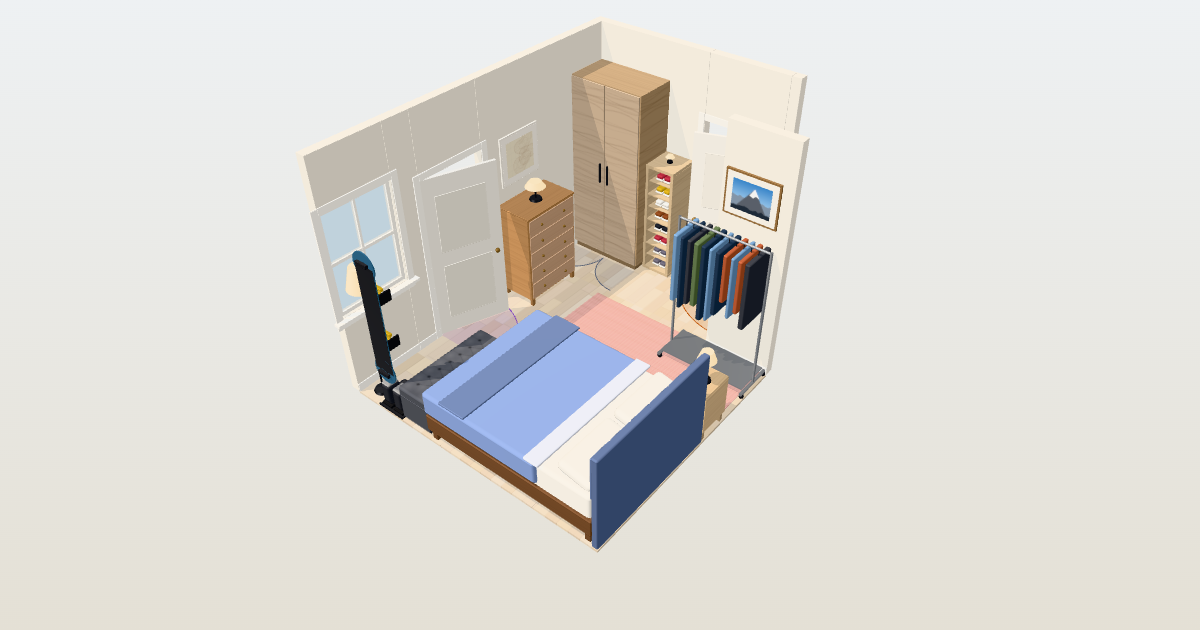
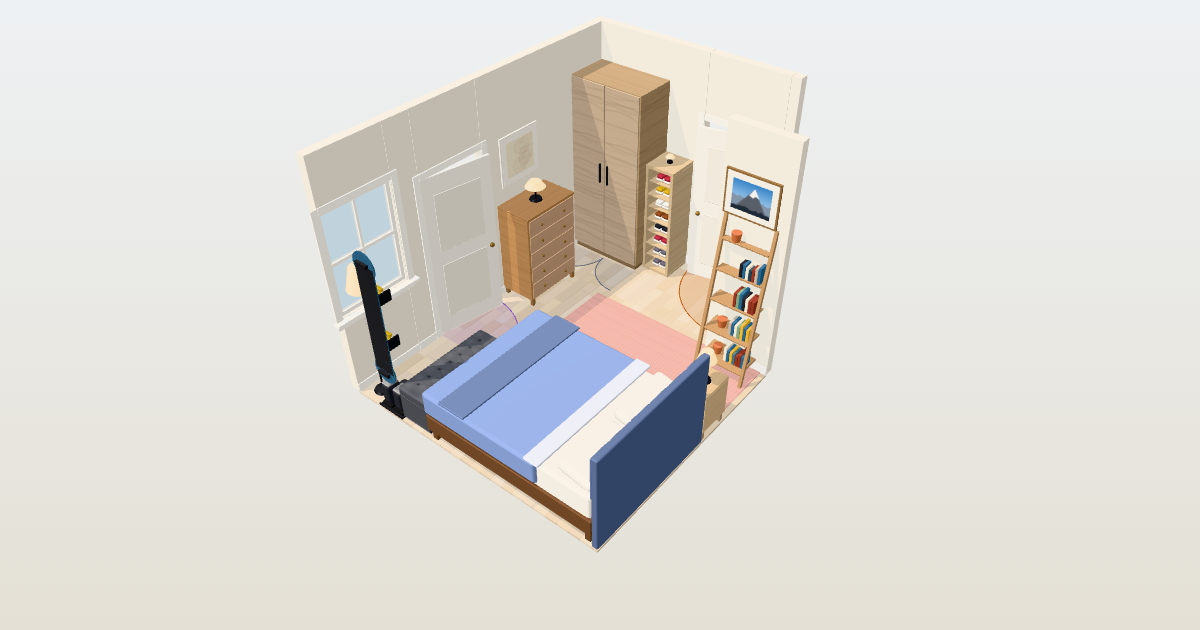
feat(layouts): ladder shelf replaces the rack in the window layout; real bean bag
The window layout now matches Femi's saved "replace bed facing the window
with this" plan: the RIGGA rack is gone and a ladder shelf leans on the
in-push under the summit photos. The bean bag is rebuilt as one sagging
fabric sack: a flat contact patch, a wide backrest roll, a sat-in seat with
creases fanning out from it, a woven fabric with sheen, and a carry handle.
It defaults to rust. Window preview retaken.

Changed region(s): [[0.5242, 0.3317, 0.6475, 0.6333], [0.4008, 0.3619, 0.4317, 0.4222], [0.37, 0.2413, 0.4008, 0.2714]]

diff --git a/site/core.js b/site/core.js
@@ -26,7 +26,7 @@ const PRESETS = [
   ["Armchair", 32, 34, 32, 0, "#7fae8f", true, "chair"], ["Rug", 96, 60, 0.5, 0, "#d9a5a0", false, "rug"],
   ["Wall shelf", 36, 8, 2, 60, "#a8a29e", true, "other"], ["Mirror", 24, 1, 60, 12, "#9fc5d8", true, "mirror"],
   ["Floor lamp", 12, 12, 64, 0, "#e3c66b", true, "lamp"], ["Table lamp", 10, 10, 18, 0, "#e3c66b", true, "lamp"], ["Plug-in sconce", 6, 4, 12, 46, "#e3c66b", true, "sconce"],
-  ["Ladder shelf", 24, 16, 72, 0, "#b08a62", true, "ladder"], ["Bean bag", 36, 34, 26, 0, "#8a6f5a", true, "beanbag"],
+  ["Ladder shelf", 24, 16, 72, 0, "#b08a62", true, "ladder"], ["Bean bag", 36, 34, 26, 0, "#a65d3f", true, "beanbag"],
   ["Snowboard wall rack", 12, 8, 63, 16, "#2f5d7c", true, "board"], ["Snowboard boots on a tray", 14, 15, 12, 0, "#2b2d33", true, "boots"],
   ["Framed art", 24, 1, 30, 50, "#efe4cc", true, "art"], ["Wall hanging", 30, 1, 45, 40, "#3f5f9e", true, "textile"], ["Peg rail with gear", 36, 2, 20, 50, "#c9b592", true, "pegs"],
   ["Custom box", 24, 24, 24, 0, "#bdbdbd", true, "other"]
@@ -36,7 +36,7 @@ const KINDS = { bed: "Bed", bench: "Bench", ottoman: "Upholstered storage bench"
   art: "Framed art", textile: "Wall hanging", pegs: "Peg rail with gear", lamp: "Lamp", sconce: "Wall sconce", plant: "Plant", other: "Plain box" };
 // Starting points that ship with the page.
 const KIND_COLOR = { bed: "#7c93c4", bench: "#a9825a", ottoman: "#4a4d55", dresser: "#b98b5e", wardrobe: "#a98f6f", rack: "#9aa3ad", shoe: "#c7b08e",
-  nightstand: "#d1b48c", shelf: "#9c7b55", ladder: "#b08a62", beanbag: "#8a6f5a", board: "#2f5d7c", boots: "#2b2d33", chair: "#7fae8f", rug: "#d9a5a0", mirror: "#9fc5d8", lamp: "#e3c66b", sconce: "#e3c66b", plant: "#7fae8f",
+  nightstand: "#d1b48c", shelf: "#9c7b55", ladder: "#b08a62", beanbag: "#a65d3f", board: "#2f5d7c", boots: "#2b2d33", chair: "#7fae8f", rug: "#d9a5a0", mirror: "#9fc5d8", lamp: "#e3c66b", sconce: "#e3c66b", plant: "#7fae8f",
   art: "#efe4cc", textile: "#3f5f9e", pegs: "#c9b592", other: "#bdbdbd" };
 // [name, kind, x, y, width, depth, height, off floor, headboard side]
 const pc = ([name, kind, x, y, w, d, h, z = 0, headSide = ""], i) => ({ id: kind + i, name, kind, x, y, w, d, h, z, color: KIND_COLOR[kind],
@@ -44,11 +44,11 @@ const pc = ([name, kind, x, y, w, d, h, z = 0, headSide = ""], i) => ({ id: kind
 const layout = (id, name, note, why, rows) => ({ id, name, note, why, items: rows.map(pc) });
 const BUILTIN = [
   layout("b3", "Bed facing the window", "wake to light",
-    "Bed turned with its head on the east wall and its foot toward the window, so the middle of the room is one open floor. A tall PAX wardrobe fills the north-west corner facing south, with a KALLAX shoe tower beside it and clear of the door swing. Its doors open onto clear floor: the MALM tall chest starts on the west wall just past them, and the open RIGGA rack runs along the in-push facing south, 30 in from the bed. A small nightstand stands at the head of the bed's open side; it leaves 14 in in front of the rack's east end. The bench sits across the foot of the bed. The snowboard hangs upright on the south wall at the window end of the bench, with its boots on a tray under it, so it sits in the dead end beside the floor lamp. No ceiling light: a floor lamp stands in the window corner, a plug-in swing-arm sconce over the bed's head corner, just above the headboard, is the reading light, and your BÖJA, Mika and PELARBOJ lamps sit on the chest, the nightstand and the KALLAX. Tightest walkway is 27 in, between the bench and the window wall; the lamp sits at its dead end. The open rack is visible clutter.", [
+    "Bed turned with its head on the east wall and its foot toward the window, so the middle of the room is one open floor. A tall PAX wardrobe fills the north-west corner facing south, with a KALLAX shoe tower beside it and clear of the door swing. Its doors open onto clear floor: the MALM tall chest starts on the west wall just past them. A ladder shelf leans on the in-push facing south, under the summit photos. A small nightstand stands at the head of the bed's open side. The bench sits across the foot of the bed. The snowboard hangs upright on the south wall at the window end of the bench, with its boots on a tray under it, so it sits in the dead end beside the floor lamp. No ceiling light: a floor lamp stands in the window corner, a plug-in swing-arm sconce over the bed's head corner, just above the headboard, is the reading light, and your BÖJA, Mika and PELARBOJ lamps sit on the chest, the nightstand and the KALLAX. Tightest walkway is 27 in, between the bench and the window wall; the lamp sits at its dead end.", [
     ["Bed", "bed", 43, 98, 86, 66, 24, 0, "E"], [BENCH, "ottoman", 27, 117, 16, 46, 18],
     ["PAX wardrobe 39 3/8, tall", "wardrobe", 0, 0, 39.375, 22.875, 93.125], ["KALLAX 1x4 shoe tower", "shoe", 39.375, 0, 15.375, 16.5, 57.875],
     ["MALM 6-drawer tall chest", "dresser", 0, 44, 18.875, 31.5, 48.375],
-    ["RIGGA clothes rack", "rack", 85.25, 48, 43.75, 20.125, 68.875], ["Small nightstand, 1 drawer", "nightstand", 117, 82, 12, 16, 24], ["Jute rug 5'3 x 7'7", "rug", 36, 48, 90.5, 63, 0.5],
+    ["Ladder shelf", "ladder", 101, 48, 24, 16, 72], ["Small nightstand, 1 drawer", "nightstand", 117, 82, 12, 16, 24], ["Jute rug 5'3 x 7'7", "rug", 36, 48, 90.5, 63, 0.5],
     ["Floor lamp", "lamp", 1, 151, 12, 12, 64], ["Snowboard wall rack", "board", 14, 156, 12, 8, 63, 16], ["Snowboard boots on a tray", "boots", 13, 149, 14, 15, 12], ["Plug-in swing-arm sconce", "sconce", 125, 99, 4, 6, 12, 46], ["Mika cactus lamp (yours)", "lamp", 119, 86, 8, 8, 15, 24],
     ["BÖJA table lamp (yours)", "lamp", 4.5, 55, 9.75, 9.75, 9.5, 48.375], ["PELARBOJ glow lamp (yours)", "lamp", 44.75, 6, 4.5, 4.5, 4, 57.875],
     ["Yosemite panorama", "art", 128, 107, 1, 48, 30, 54], ["Park print", "art", 55, 163, 18, 1, 24, 50], ["Park print", "art", 77, 163, 18, 1, 24, 50], ["Park print", "art", 99, 163, 18, 1, 24, 50], ["Adire wall hanging", "textile", 128, 68.25, 1, 29.5, 40, 54], ["Framed topo map", "art", 0, 47.75, 1, 24, 24, 56], ["Summit photos", "art", 100, 48, 24, 1, 20, 72]]),

diff --git a/site/index.html b/site/index.html
@@ -414,6 +414,77 @@ const tuftMat = (c, aspect) => cached(`tuft${c}/${aspect.toFixed(2)}`, () => new
     }
   })
 }));
+// Woven upholstery: a fine basket weave with slubs, used as both the colour map and the bump map.
+const fabricTex = (() => {
+  const t = canvasTex(256, 256, (g, w, h) => {
+    const r = rng("weave");
+    g.fillStyle = "#e9e7e2"; g.fillRect(0, 0, w, h);
+    for (let y = 0; y < h; y += 4) for (let x = 0; x < w; x += 4) {
+      const across = ((x + y) / 4) % 2 === 0, k = 0.05 + r() * 0.07;
+      g.fillStyle = `rgba(0,0,0,${k})`;
+      g.fillRect(x, y, across ? 4 : 2, across ? 2 : 4);
+    }
+    for (let i = 0; i < 260; i++) { // slubs: thicker bits of yarn
+      g.fillStyle = `rgba(255,255,255,${0.08 + r() * 0.12})`;
+      g.fillRect(r() * w, r() * h, 3 + r() * 6, 1);
+    }
+  });
+  t.wrapS = t.wrapT = THREE.RepeatWrapping;
+  t.repeat.set(14, 7);
+  return t;
+})();
+const fabricMat = c => cached("fabric" + col(c).getHexString(), () => new THREE.MeshPhysicalMaterial({
+  color: col(c), map: fabricTex, bumpMap: fabricTex, bumpScale: 0.35, roughness: 0.9,
+  sheen: 0.8, sheenRoughness: 0.6, sheenColor: shade(c, 0.4)
+}));
+// A bean bag's sack: a sphere pushed into shape. The beans settle into a wide flat base with
+// bulging sides, the back stays up as a backrest, the seat sinks where someone sat, and the
+// cover creases round that dent.
+function sackGeometry(a, dp, h, seed) {
+  const geo = new THREE.SphereGeometry(1, 128, 88), pos = geo.attributes.position, r = rng(seed);
+  const ph = [...Array(5)].map(() => r() * 6.3), body = h * 0.64, seatZ = dp * 0.1;
+  const smooth = (lo, hi, v) => { const t = clamp((v - lo) / (hi - lo), 0, 1); return t * t * (3 - 2 * t); };
+  let backTop = [0, 0, 0];
+  for (let i = 0; i < pos.count; i++) {
+    const ux = pos.getX(i), uy = pos.getY(i), uz = pos.getZ(i);
+    // settled profile: a flat contact patch, sides that bulge low and tuck under, a rounded top
+    const bulge = 1 + 0.07 * Math.exp(-(((uy - 0.05) / 0.35) ** 2));
+    let x = ux * bulge * a / 2, z = uz * bulge * dp / 2;
+    let y = uy < 0 ? body * 0.1 * Math.sqrt(Math.max(0, 1 - (uy / 0.3) ** 2)) : body * (0.1 + 0.9 * uy);
+    // backrest: the whole rear rim of the top stands up as one wide roll, leaning slightly forward
+    const ring = Math.hypot(ux, uz), behind = ring > 1e-6 ? -uz / ring : 0;
+    const back = smooth(-0.35, 0.75, behind) * smooth(0.05, 0.6, uy) * smooth(0.05, 0.5, ring);
+    y += (h - body) * back;
+    z += dp * 0.06 * back;
+    // the front lip slumps forward
+    z += dp * 0.05 * Math.max(uz, 0) * Math.exp(-(((uy - 0.15) / 0.3) ** 2));
+    // where someone sat
+    const dent = Math.exp(-((x / (a * 0.26)) ** 2 + ((z - seatZ) / (dp * 0.24)) ** 2)) * Math.max(uy, 0);
+    y -= h * 0.2 * dent;
+    // creases radiating from the dent, and looser folds round the sides
+    const around = Math.atan2(z - seatZ, x), rim = 4 * dent * (1 - dent);
+    const crease = rim * (0.5 * Math.sin(around * 7 + ph[0]) + 0.25 * Math.sin(around * 13 + ph[1]));
+    const side = Math.exp(-(((uy + 0.05) / 0.45) ** 2)) * 0.35 * Math.sin(Math.atan2(uz, ux) * 9 + uy * 4 + ph[2]);
+    const wrinkle = 0.15 * Math.sin(ux * 6 + uy * 4 + ph[3]) * Math.sin(uz * 7 - uy * 3 + ph[4]);
+    const push = crease + side + wrinkle;
+    x += ux * push; z += uz * push; y = Math.max(y + uy * push, 0);
+    pos.setXYZ(i, x, y, z);
+    if (Math.abs(x) < a * 0.08 && z < 0 && y > backTop[1]) backTop = [x, y, z];
+  }
+  geo.computeVertexNormals();
+  // the sphere repeats vertices along its seam and at its poles; give each copy the same normal
+  const nrm = geo.attributes.normal, shared = new Map(), key = i => [pos.getX(i), pos.getY(i), pos.getZ(i)].map(v => v.toFixed(3)).join();
+  for (let i = 0; i < pos.count; i++) {
+    const k = key(i), s = shared.get(k) || shared.set(k, [0, 0, 0]).get(k);
+    s[0] += nrm.getX(i); s[1] += nrm.getY(i); s[2] += nrm.getZ(i);
+  }
+  for (let i = 0; i < pos.count; i++) {
+    const [nx, ny, nz] = shared.get(key(i)), len = Math.hypot(nx, ny, nz) || 1;
+    nrm.setXYZ(i, nx / len, ny / len, nz / len);
+  }
+  geo.userData.backTop = backTop;
+  return geo;
+}
 const rugMat = (c, name, aspect) => cached(`rug${c}/${/jute/.test(name)}/${aspect.toFixed(2)}`, () => new THREE.MeshStandardMaterial({
   roughness: 1,
   map: canvasTex(512, Math.max(64, Math.round(512 / aspect)), (g, w, h) => {
@@ -597,15 +668,14 @@ const MODELS = {
       for (let x = a * 0.02; x < a / 2 - 3 && sd > 5; x += 1.4) bxm(g, 1.2, 5 + r() * 3, Math.min(sd - 1, 6), x, y + 0.8, back + sd / 2, M(pick(r, BOOKS), 0.8));
     }
   },
-  // A squashed sack of beans with a higher lump at the back where you lean.
-  beanbag(g, { a, dp, h, c }) {
-    const lump = (sx, sy, sz, x, y, z, m) => {
-      const mesh = new THREE.Mesh(new THREE.SphereGeometry(1, 32, 20), m);
-      mesh.scale.set(sx, sy, sz); mesh.position.set(x, y, z); g.add(mesh);
-    };
-    lump(a / 2, h * 0.36, dp / 2, 0, h * 0.36, 0, M(c, 1));
-    lump(a * 0.42, h * 0.42, dp * 0.26, 0, h * 0.58, -dp * 0.2, M(c, 1));
-    lump(a * 0.3, h * 0.12, dp * 0.3, 0, h * 0.66, dp * 0.08, M(shade(c, -0.12), 1));
+  // A sagging fabric sack with a backrest, a sat-in seat and a carry handle on top of the back.
+  beanbag(g, { a, dp, h, c, it }) {
+    const geo = sackGeometry(a, dp, h, it.id), [hx, hy, hz] = geo.userData.backTop;
+    g.add(new THREE.Mesh(geo, fabricMat(c)));
+    const handle = new THREE.Mesh(new THREE.TorusGeometry(2.4, 0.5, 8, 24, Math.PI), fabricMat(shade(c, -0.25)));
+    handle.position.set(hx, hy - 1.2, hz + 1.5);
+    handle.rotation.x = -0.5;
+    g.add(handle);
   },
   // Snowboard on a wall rack with its bindings on: upright when taller than wide, lying flat otherwise.
   board(g, { a, dp, h, c }) {

diff --git a/README.md b/README.md
@@ -14,7 +14,8 @@ A planner for Femi's San Francisco bedroom, built from his own measurements. Inc
   remembers the choice in that browser.
 - **Gear:** every ready-made layout hangs Femi's snowboard upright on a wall rack, bindings on,
   with his boots on a tray under it. A board's model lies flat instead when it is wider than tall.
-  The furniture list also offers a leaning ladder shelf and a bean bag.
+  The furniture list also offers a leaning ladder shelf, which the window layout uses on the
+  in-push, and a bean bag modelled as one sagging fabric sack with a sat-in seat.
 - **On a phone** the 3D page is a viewer: the layouts are tabs, there is no editing panel, a drag
   turns the room and a tap names a piece. A screen at most 760 px wide or 500 px tall counts
   as a phone. Editing needs a wider screen.
